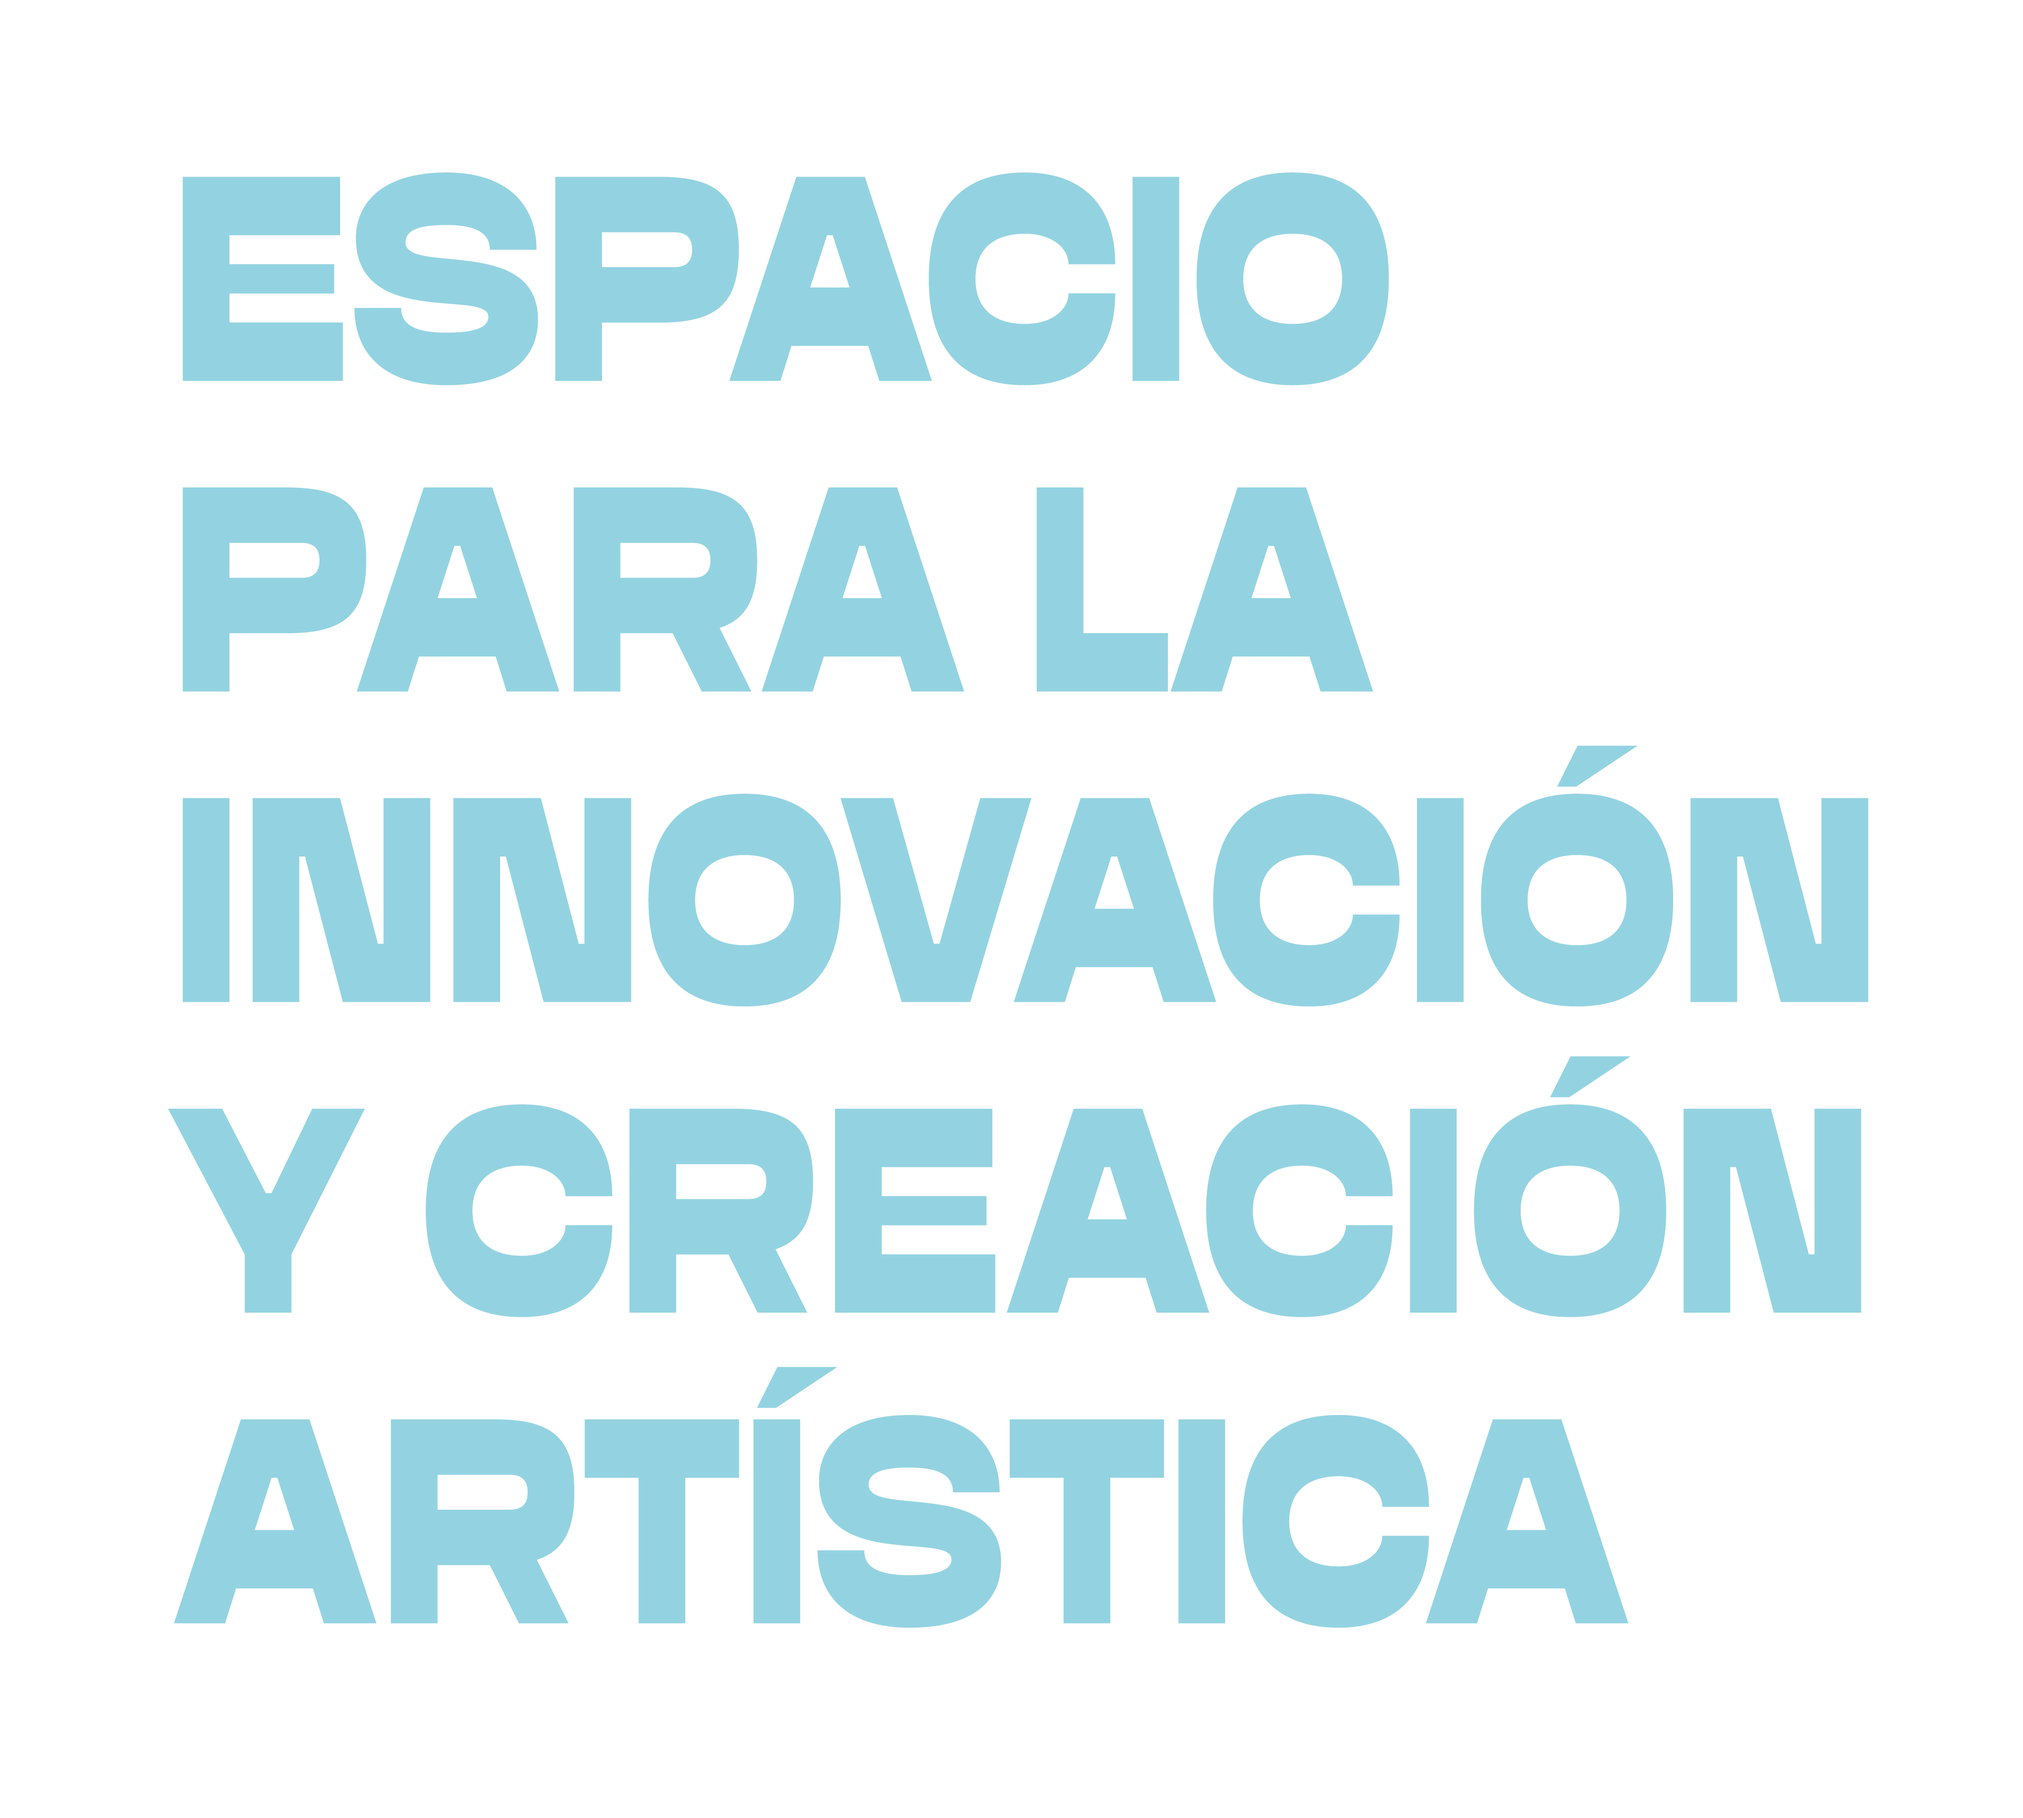
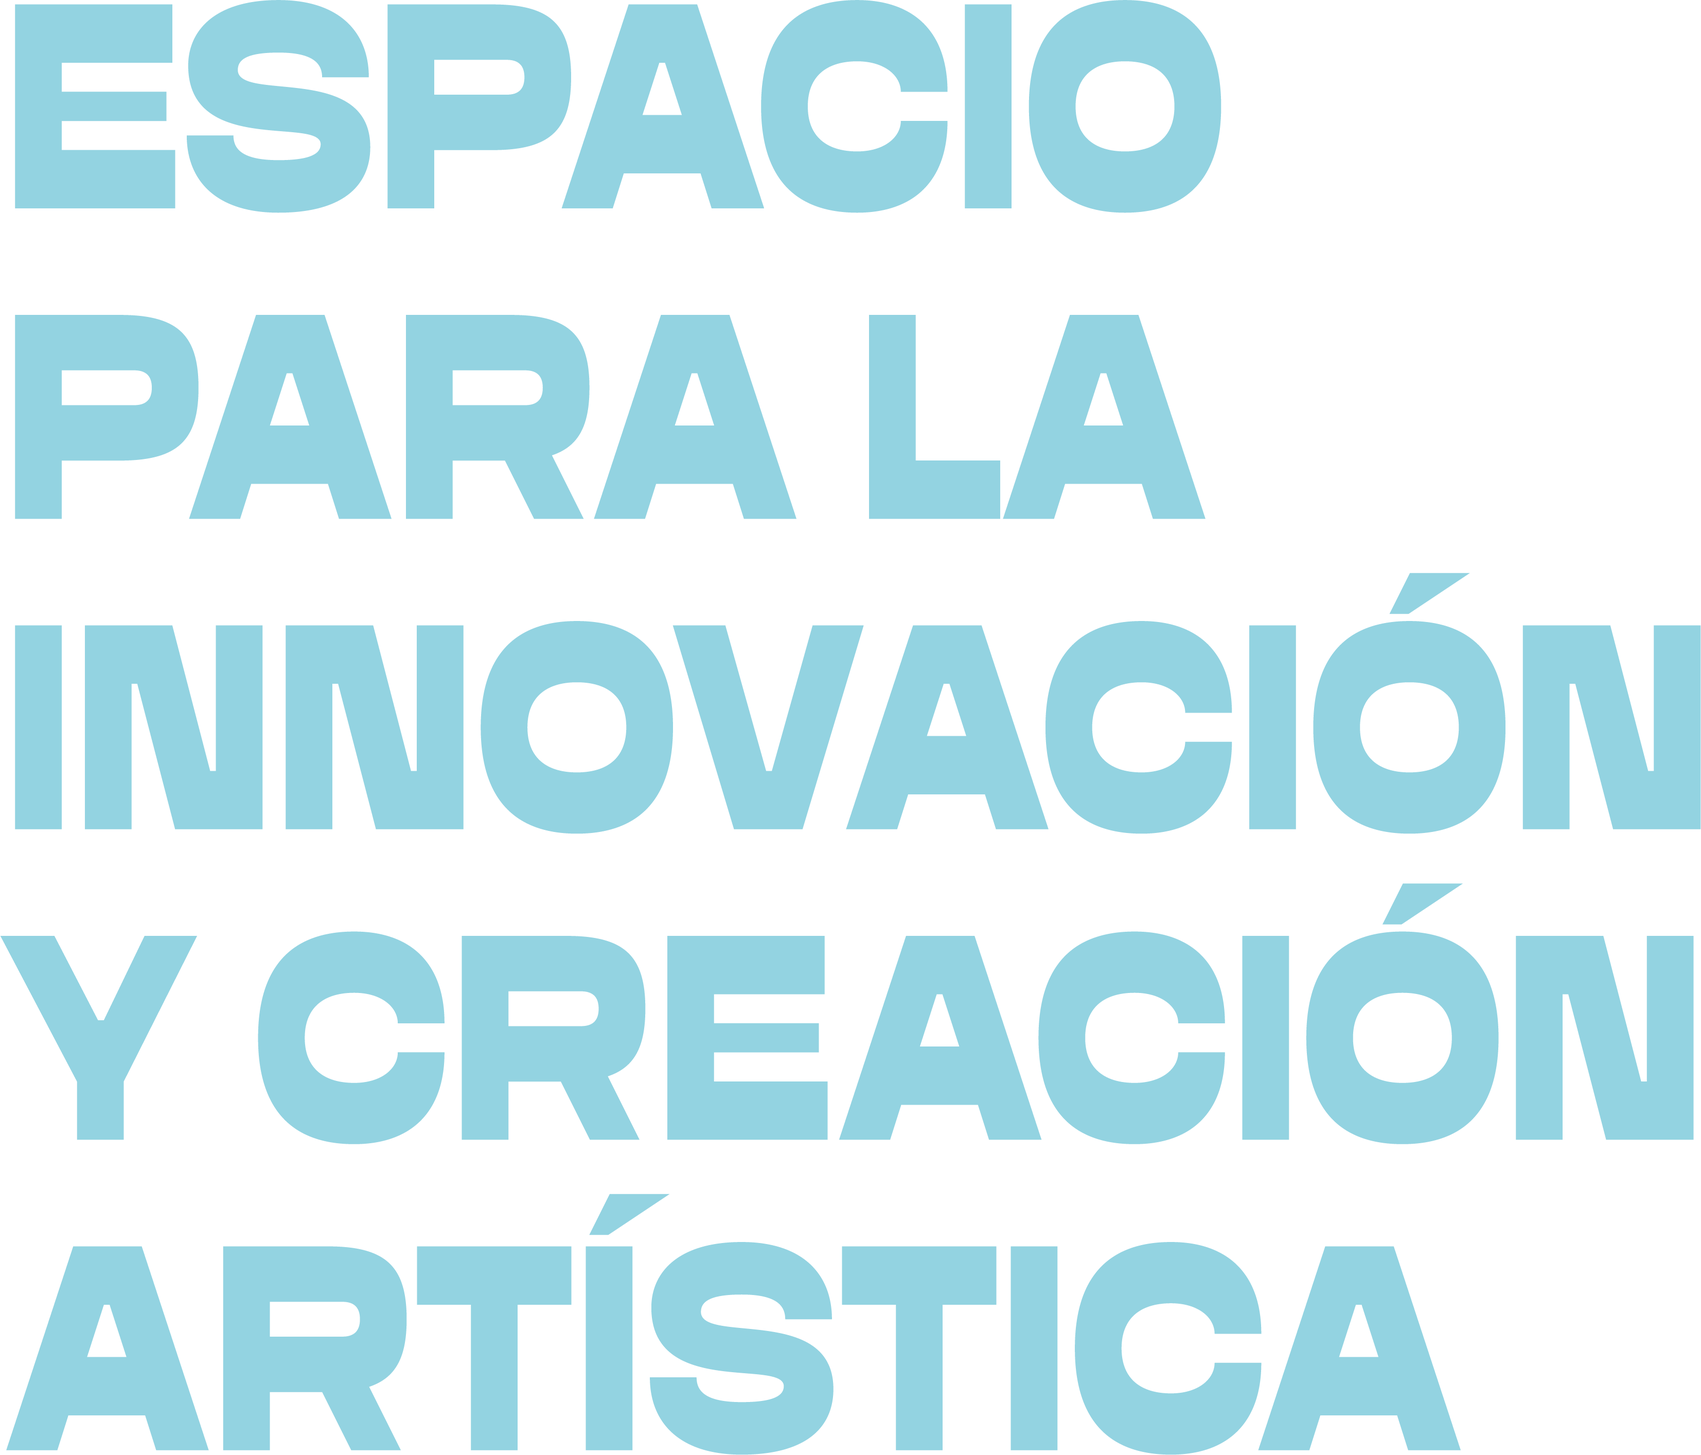
cambios web epica con daniela

diff --git a/src/app/sections/Section1.js b/src/app/sections/Section1.js
@@ -15,7 +15,8 @@ export default function Section1() {
         </div>
         <div className="rounded-lg block sm:flex w-full mt-10">
           <div className="w-full sm:w-[68%]">
-          <img src="/img/textos/web.png" className="w-[90%]"  style={{ marginTop: "12%" }}></img>
+          <img src="/img/textos/web.png" className="w-[90%] hidden sm:block"  style={{ marginTop: "12%" }}/>
+          <img src="/img/textos/movil.png" className="w-[100%] block sm:hidden"  style={{ marginTop: "12%" }}/>
           </div>
 
           <div className="w-full sm:w-[32%]" style={{ marginTop:"12%"}}>
